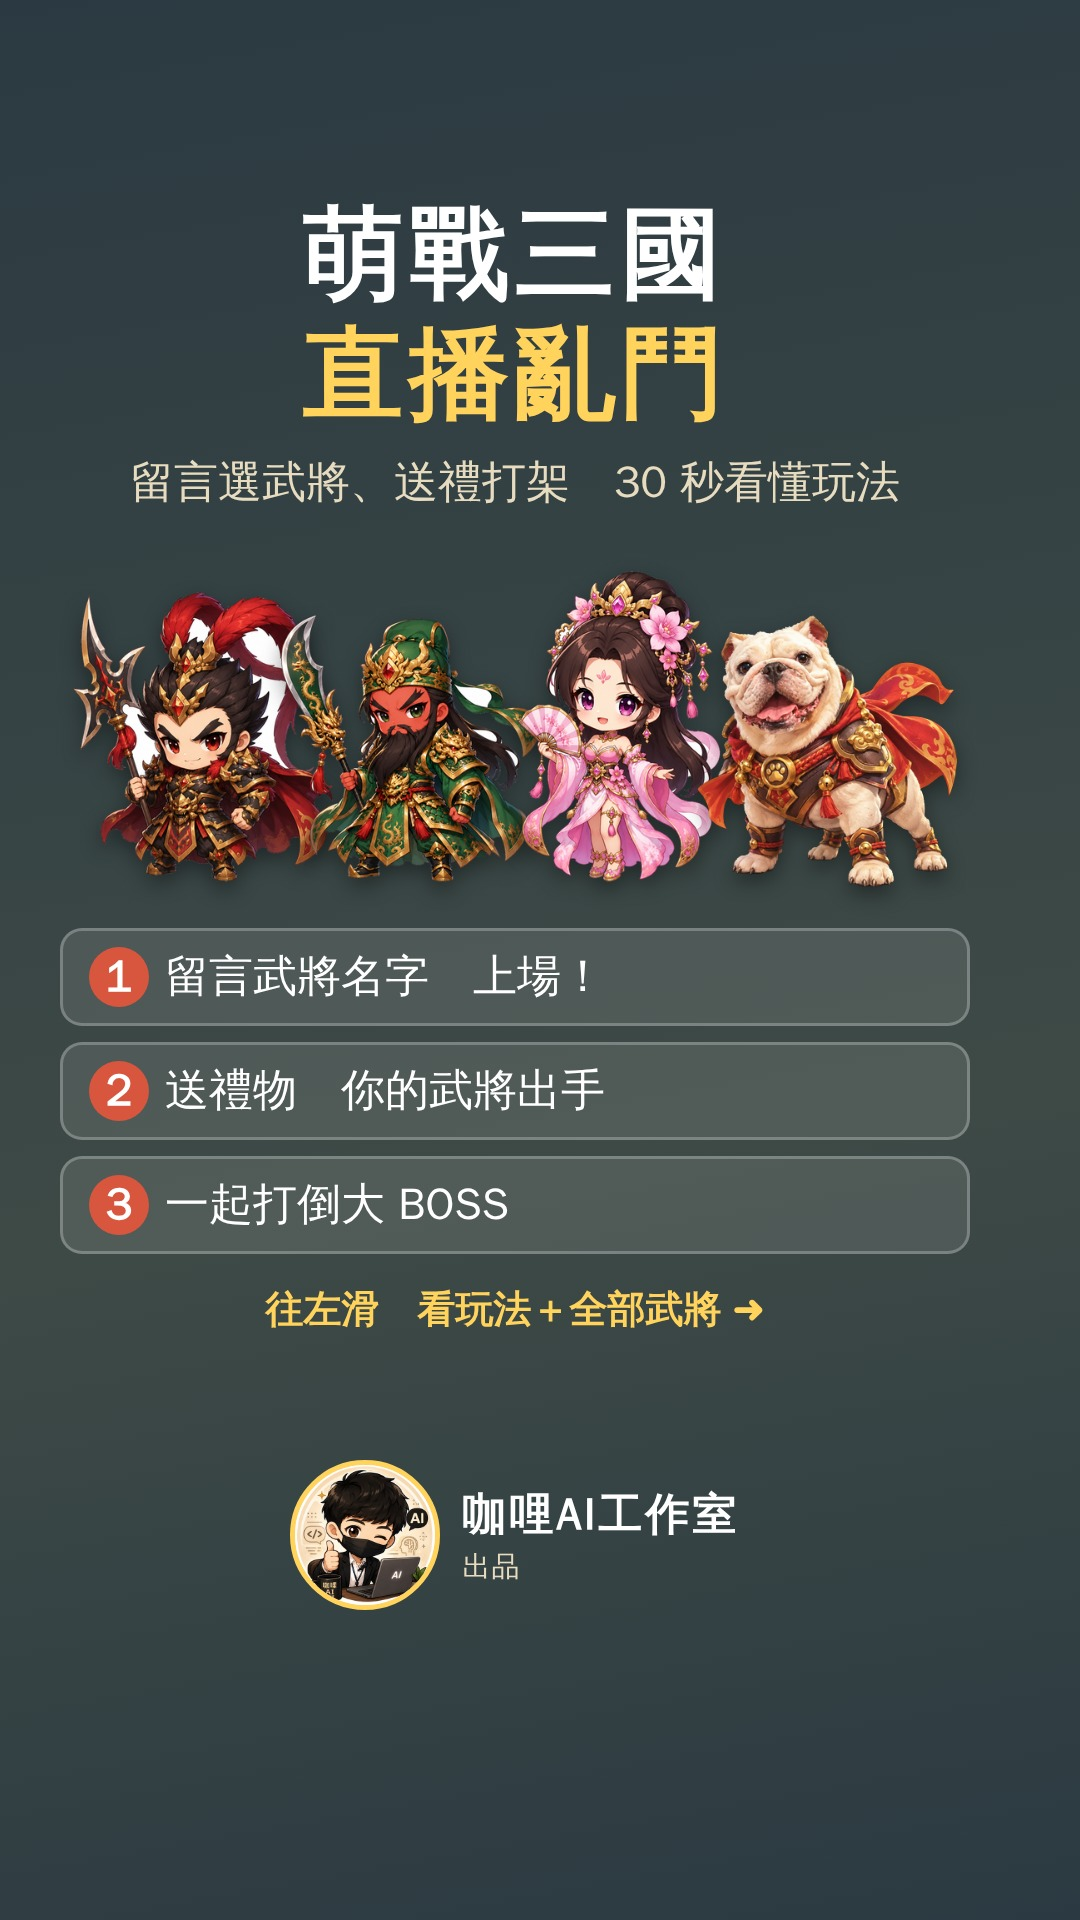
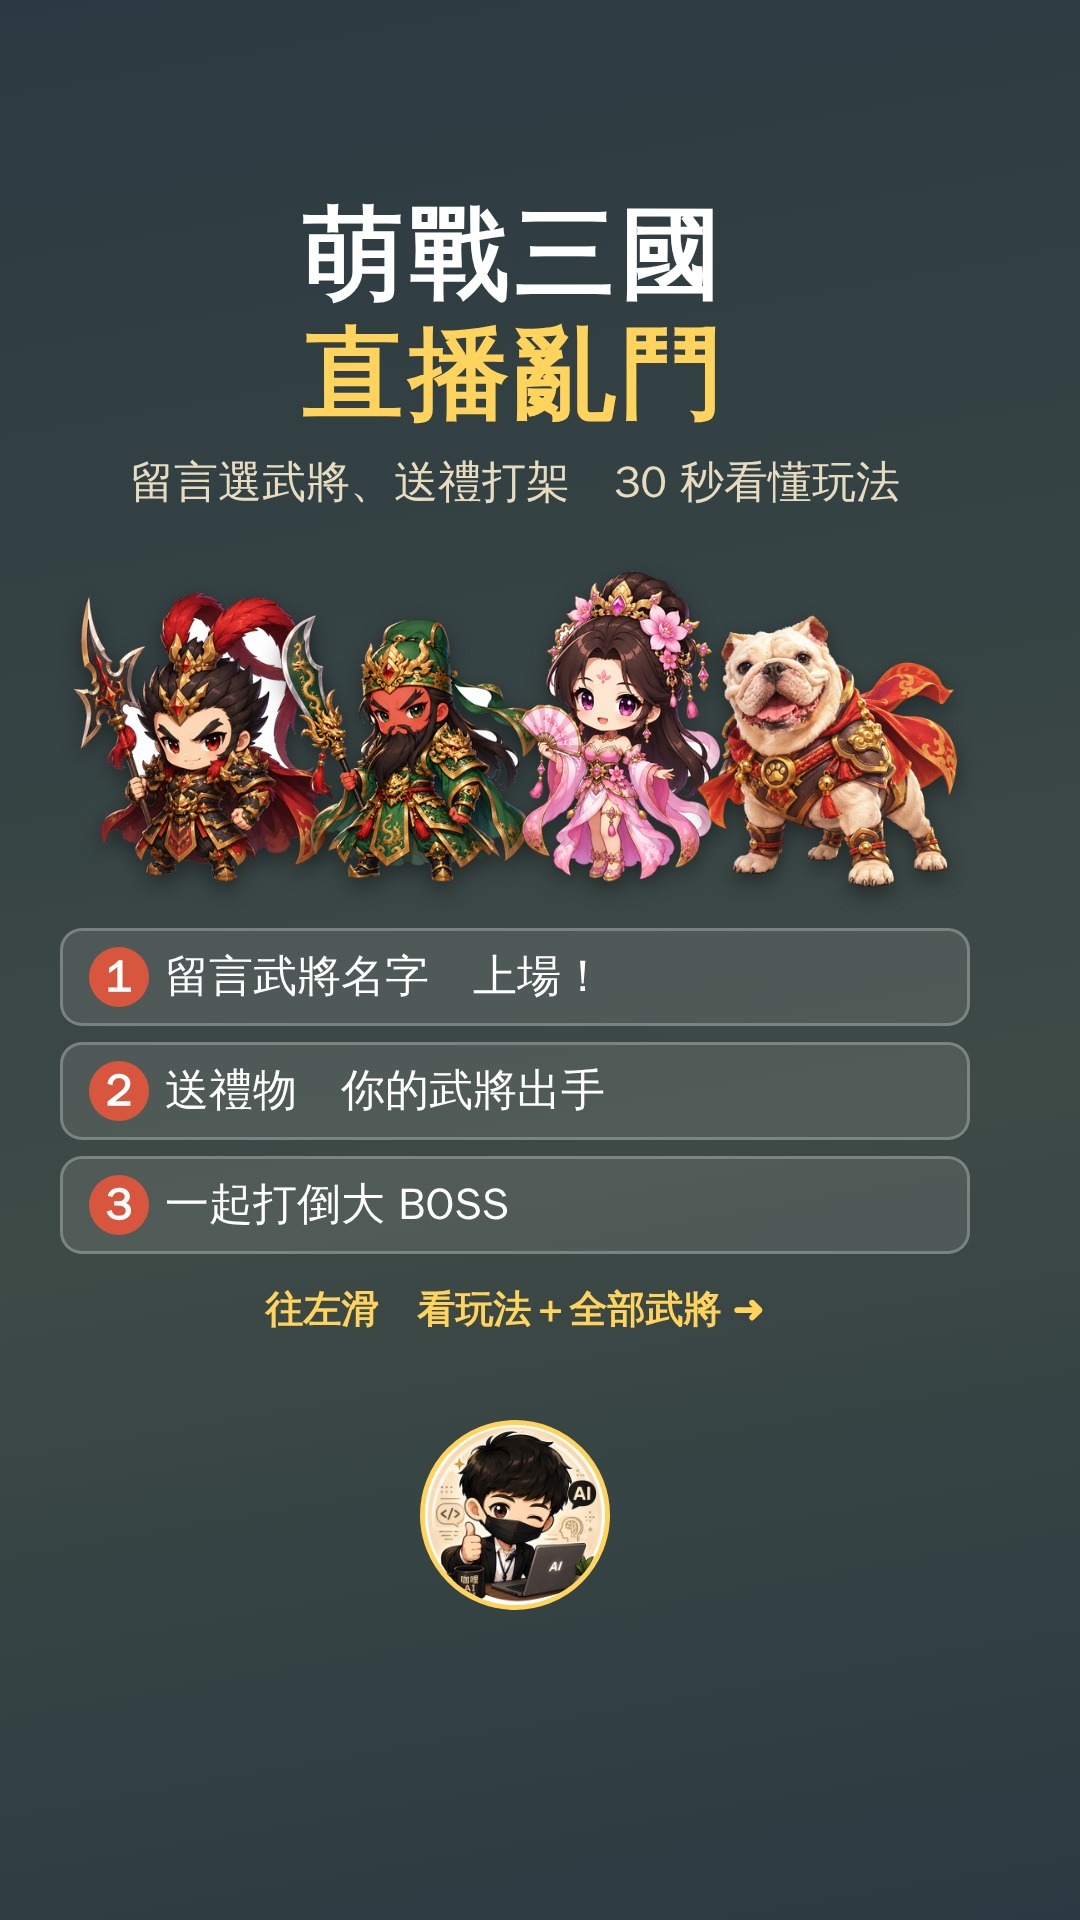
玩法說明第1頁頭像拿掉文字、放大
Claude-Session: https://claude.ai/code/session_01J1mi4tQsbQufTfnNbsrTar

Changed region(s): [[0.2444, 0.7188, 0.6722, 0.8438]]

diff --git a/tools/make_howto.js b/tools/make_howto.js
@@ -85,7 +85,7 @@ body { background: #888; font-family: "Noto Sans TC","Microsoft JhengHei","PingF
 .tracks10 { display: grid; grid-template-columns: repeat(5, 1fr); gap: 10px; margin-top: 18px; } .tc { background: #fff; border-radius: 16px; padding: 8px 4px 6px; text-align: center; min-width: 0; } .tc svg { width: 100%; height: auto; display: block; } .tc span { display: block; font-size: 23px; font-weight: 700; line-height: 1.2; }
 .gates { display: flex; gap: 10px; margin-top: 18px; } .gt { flex: 1; background: #fff; border-radius: 16px; padding: 10px 4px 8px; text-align: center; min-width: 0; } .gt i { display: block; font-style: normal; font-size: 64px; line-height: 1.1; } .gt b { display: block; font-size: 30px; } .gt span { display: block; font-size: 30px; font-weight: 900; color: #D9563E; }
 .brand { display: flex; align-items: center; justify-content: center; gap: 22px; position: absolute; left: 60px; right: 110px; bottom: 310px; }
-.brand img { width: 150px; height: 150px; border-radius: 50%; border: 5px solid #ffd35c; background: #F7F1E3; }
+.brand img { width: 190px; height: 190px; border-radius: 50%; border: 5px solid #ffd35c; background: #F7F1E3; }
 .brand span { font-size: 44px; font-weight: 900; color: #fff; letter-spacing: 3px; } .brand small { display: block; font-size: 28px; font-weight: 700; color: #e8dcc0; letter-spacing: 1px; margin-top: 4px; }
 .swipe { margin-top: 30px; font-size: 38px; color: #ffd35c; font-weight: 900; }
 `;
@@ -98,7 +98,7 @@ const slides = [
   <div class="row"><img src="${img('lvbu.png')}"><img src="${img('guanyu.png')}"><img src="${img('diaochan.png')}"><img src="${img('michelin.png')}"></div>
   <div class="steps"><div><i>1</i>留言武將名字　上場！</div><div><i>2</i>送禮物　你的武將出手</div><div><i>3</i>一起打倒大 BOSS</div></div>
   <div class="swipe">往左滑　看玩法＋全部武將 ➜</div>
-  <div class="brand"><img src="${brand}"><div style="text-align:left"><span>咖哩AI工作室</span><small>出品</small></div></div></div>`,
+  <div class="brand"><img src="${brand}"></div></div>`,
 
 `<div class="slide">${top(2)}<div class="body">
   <div class="card"><div class="no">1</div><h2>留言選武將上場</h2>

diff --git a/CLAUDE.md b/CLAUDE.md
@@ -323,7 +323,7 @@
 | `bridge/啟動.bat` | Windows 一鍵啟動橋接程式 |
 | `tools/make_roster.js` | 產生武將名冊圖片（發給觀眾看有哪些武將可選），輸出到 `roster/` |
 | `roster/` | 武將名冊圖片：全武將總覽圖一張（橫式）＋魏蜀吳群萌各一張。武將資料或圖有變就重跑 `node tools/make_roster.js`（另有 `全武將清單.jpg`（只有陣營、武將名稱、技能名稱的直式 1080x1920（跟玩法說明同大小）純文字一覽表，一個陣營一塊、每排 5 位、武將名字放大，沒有武將圖，2026-11-16 咖哩要求）；全武將名冊是**一張橫式總覽圖**，一個陣營一排，不是長圖，2026-11-16 咖哩要求）；另有 `玩法說明_1～13.jpg`（`node tools/make_howto.js`） |
-| `tools/make_howto.js` | 產生「玩法說明」圖片（TikTok 圖文貼文用）：`roster/玩法說明_1.jpg`～`_13.jpg`，每張 1080x1920（9:16），照順序上傳當輪播圖：**1 封面（最下面有咖哩AI工作室頭像＋「咖哩AI工作室 出品」，圖是 `assets/brand/curry_ai_studio.png`，位置避開 TikTok 下方 300px 遮擋區）、2～4 玩法、5 陣營模式、6 賽跑模式（附 10 種賽道小圖，形狀與顏色直接讀 `js/race-tracks.js`）、7 障礙賽（5 道關卡與過關率直接讀 `config.race.hurdle`）、8 障礙賽 10 種專屬賽道小圖（讀 `config.race.hurdleTracks`）、9～13 蜀／魏／吳／群／萌 五個陣營的武將圖**（每個武將附名稱和技能名，資料讀 `data/heroes.js`＋`data/extra-heroes.js`，新增武將或改技能名後重跑就會更新；張數＝8＋有武將的陣營數）。**版面留了 TikTok 的安全區**（上 130、下 300、右 110px 不放重點，標題文字和愛心按鈕會蓋住）。可用 `--attack 玫瑰 --aoe 煙火 --skill 皇冠 --heal 愛心` 填上主播指定的禮物名（沒給就寫「主播公布」）；數字（60 秒復活、99 級、BOSS 鑽石數）寫在腳本裡，改了 `js/config.js` 要回頭改 |
+| `tools/make_howto.js` | 產生「玩法說明」圖片（TikTok 圖文貼文用）：`roster/玩法說明_1.jpg`～`_13.jpg`，每張 1080x1920（9:16），照順序上傳當輪播圖：**1 封面（最下面只有咖哩AI工作室頭像（不加文字），圖是 `assets/brand/curry_ai_studio.png`，位置避開 TikTok 下方 300px 遮擋區）、2～4 玩法、5 陣營模式、6 賽跑模式（附 10 種賽道小圖，形狀與顏色直接讀 `js/race-tracks.js`）、7 障礙賽（5 道關卡與過關率直接讀 `config.race.hurdle`）、8 障礙賽 10 種專屬賽道小圖（讀 `config.race.hurdleTracks`）、9～13 蜀／魏／吳／群／萌 五個陣營的武將圖**（每個武將附名稱和技能名，資料讀 `data/heroes.js`＋`data/extra-heroes.js`，新增武將或改技能名後重跑就會更新；張數＝8＋有武將的陣營數）。**版面留了 TikTok 的安全區**（上 130、下 300、右 110px 不放重點，標題文字和愛心按鈕會蓋住）。可用 `--attack 玫瑰 --aoe 煙火 --skill 皇冠 --heal 愛心` 填上主播指定的禮物名（沒給就寫「主播公布」）；數字（60 秒復活、99 級、BOSS 鑽石數）寫在腳本裡，改了 `js/config.js` 要回頭改 |
 | `tools/sync_from_curry_games.py` | 從 Curry_Games 同步資料與全身圖 |
 
 ## 工作方式
